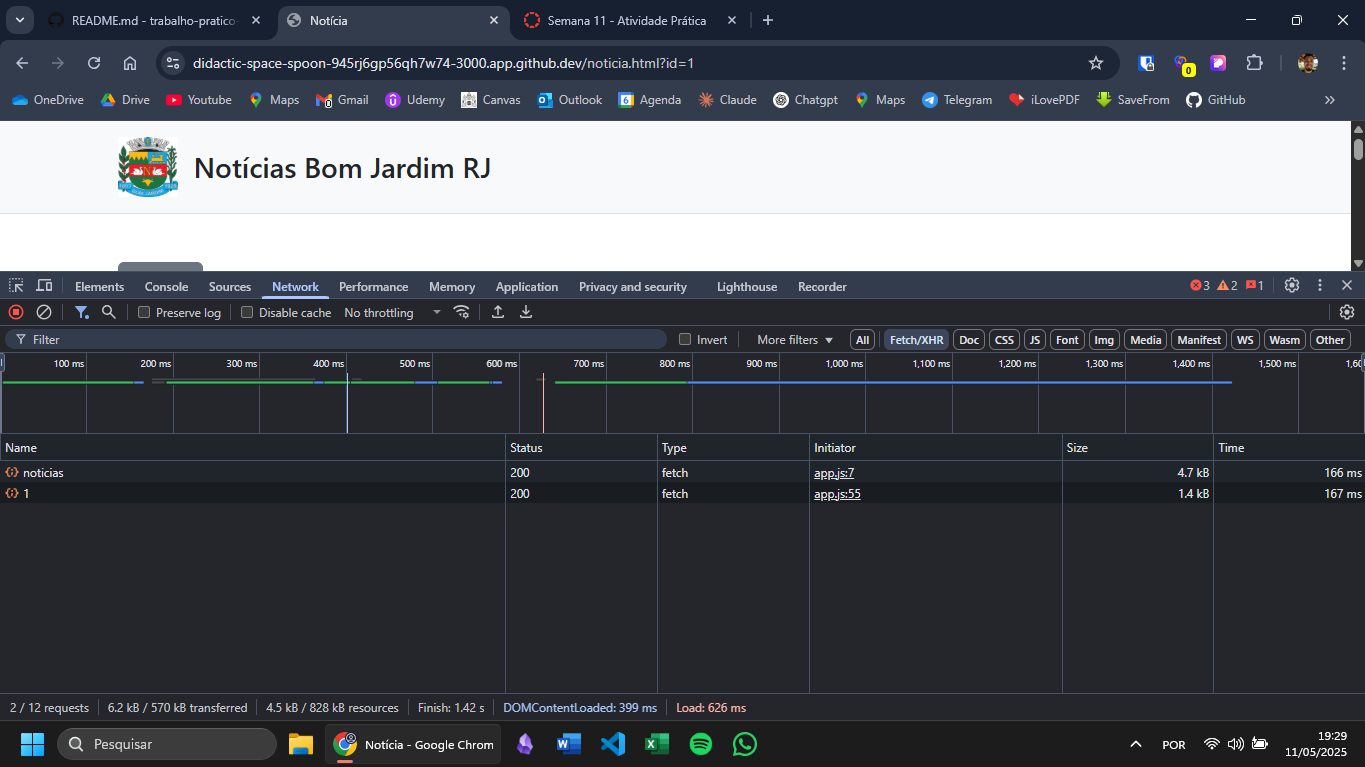
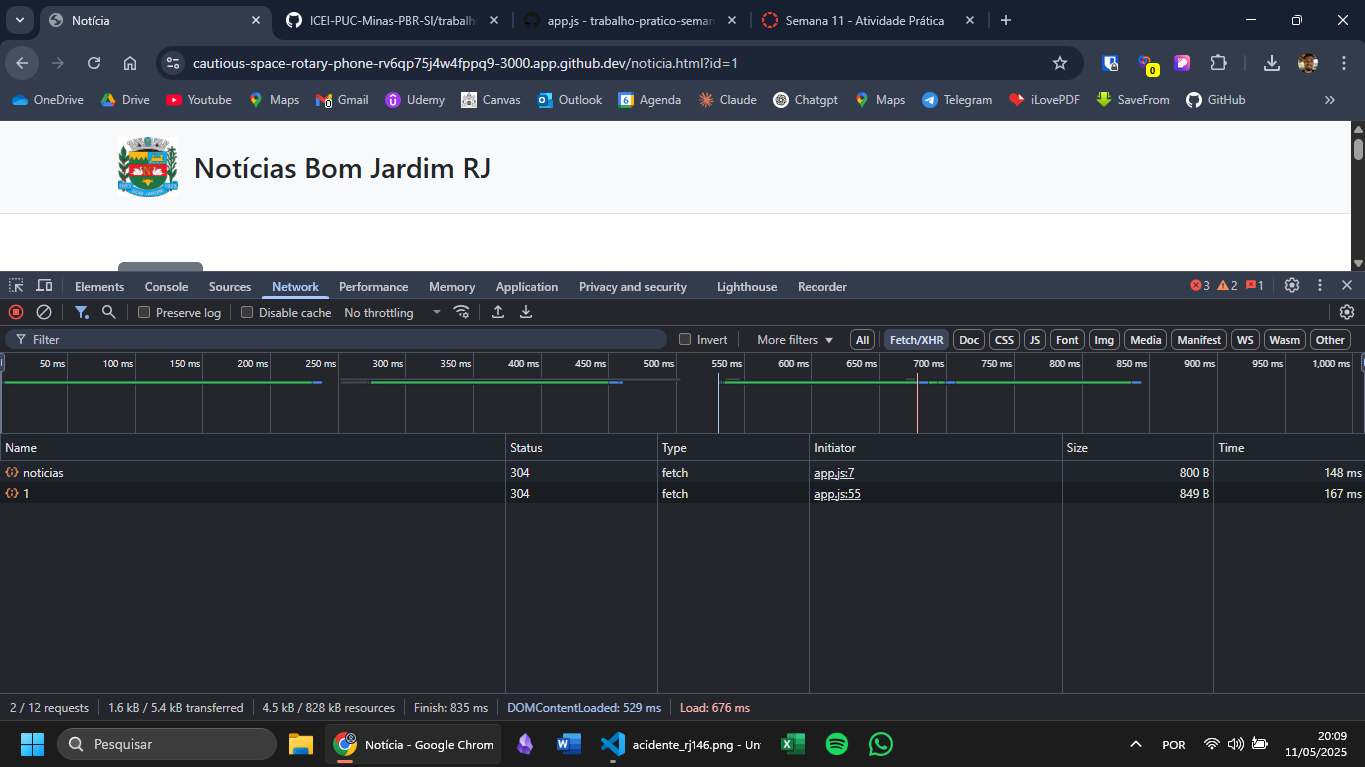
ultimos ajustes readme.md

diff --git a/public/assets/scripts/app.js b/public/assets/scripts/app.js
@@ -1,5 +1,5 @@
  document.addEventListener('DOMContentLoaded', async () => {
-      const API_URL = 'https://didactic-space-spoon-945rj6gp56qh7w74-3000.app.github.dev/noticias';
+      const API_URL = 'https://cautious-space-rotary-phone-rv6qp75j4w4fppq9-3000.app.github.dev/noticias';
       const carrosselContainer = document.getElementById('carrossel-inner');
       const noticiasContainer = document.getElementById('noticias-container');
 
@@ -52,7 +52,7 @@
       const container = document.getElementById('noticia');
 
       try {
-        const response = await fetch(`https://didactic-space-spoon-945rj6gp56qh7w74-3000.app.github.dev/noticias/${noticiaId}`);
+        const response = await fetch(`https://cautious-space-rotary-phone-rv6qp75j4w4fppq9-3000.app.github.dev/noticias/${noticiaId}`);
         if (!response.ok) throw new Error('Notícia não encontrada.');
 
         const noticia = await response.json();
